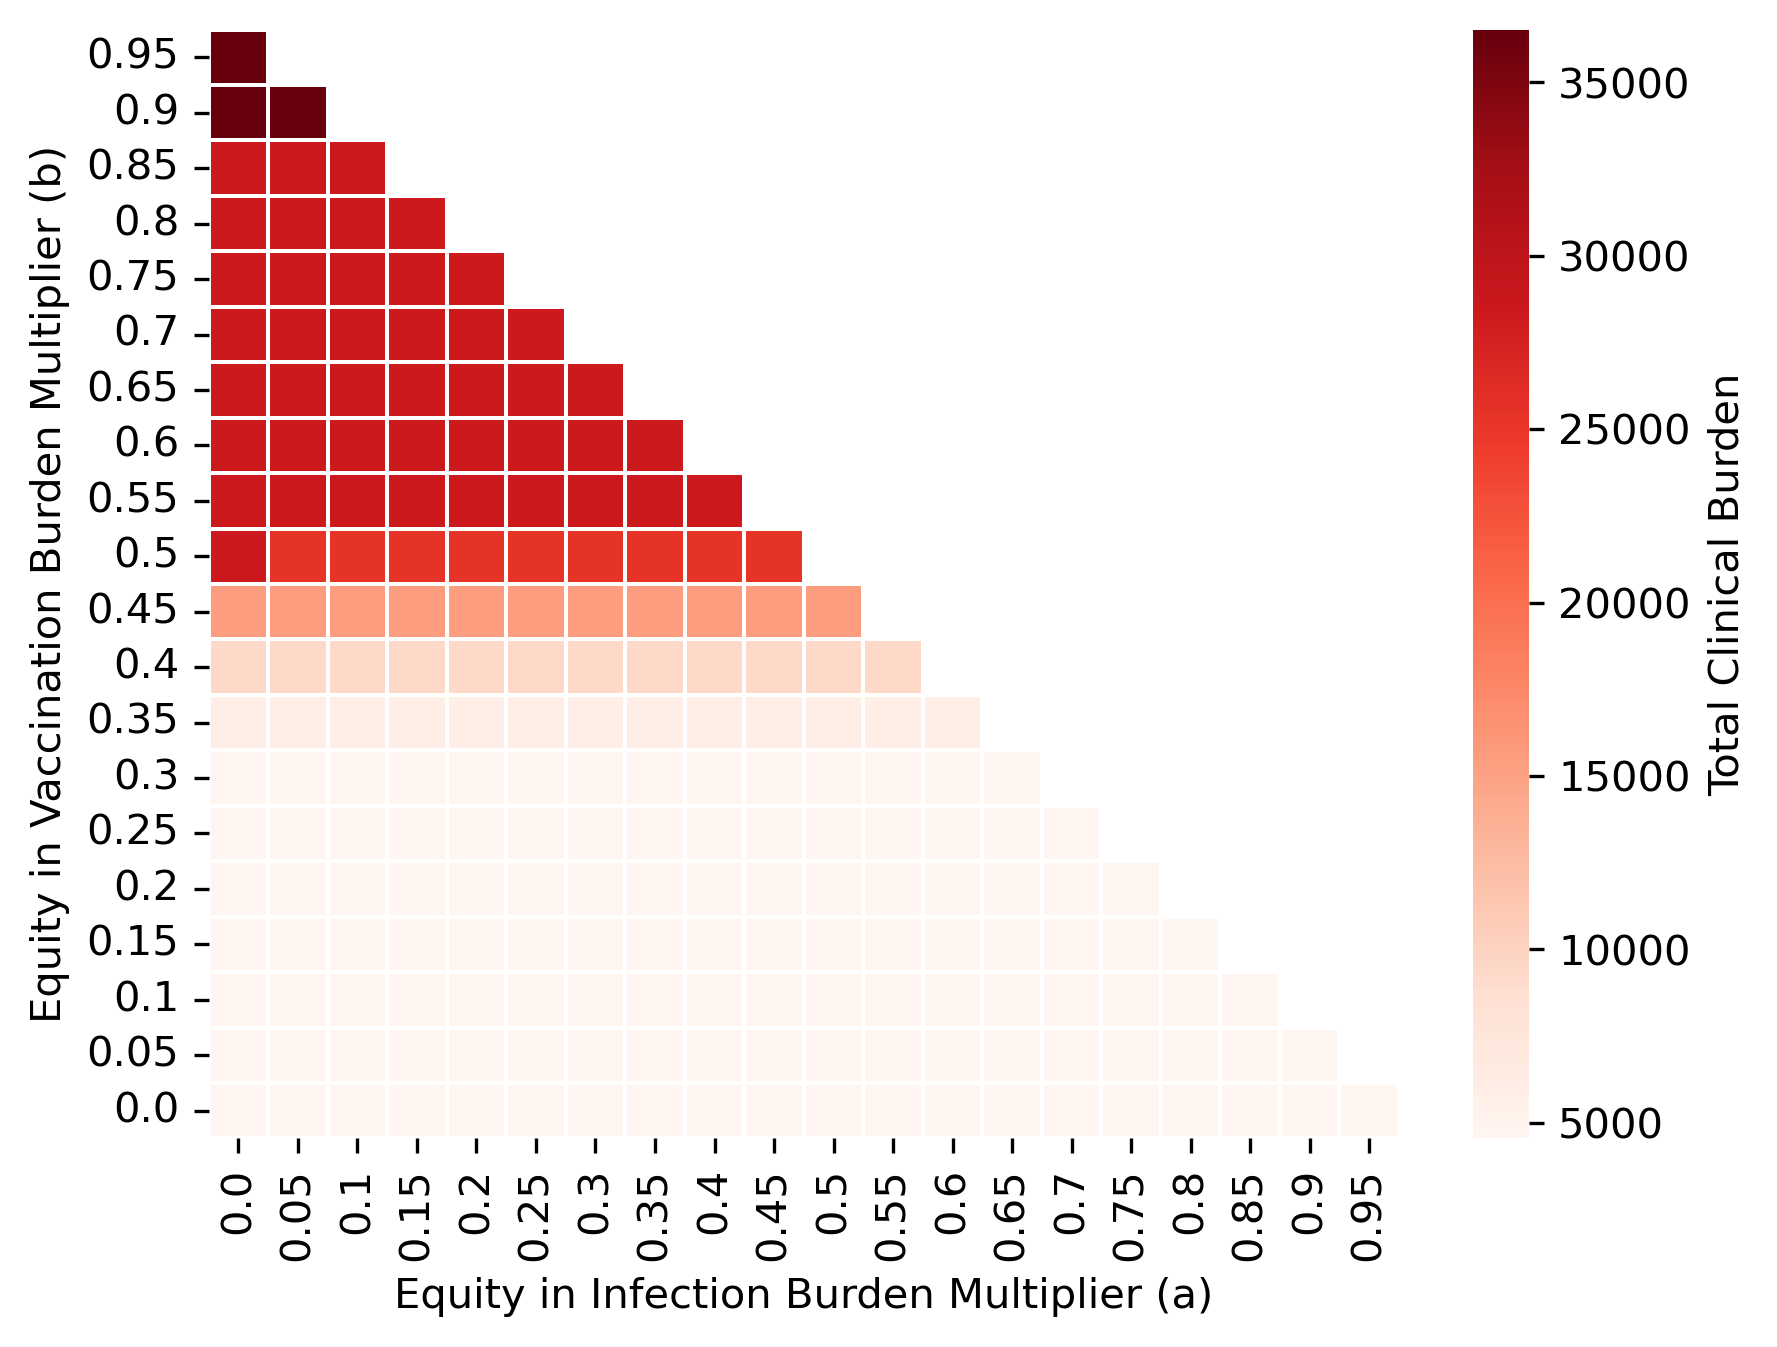
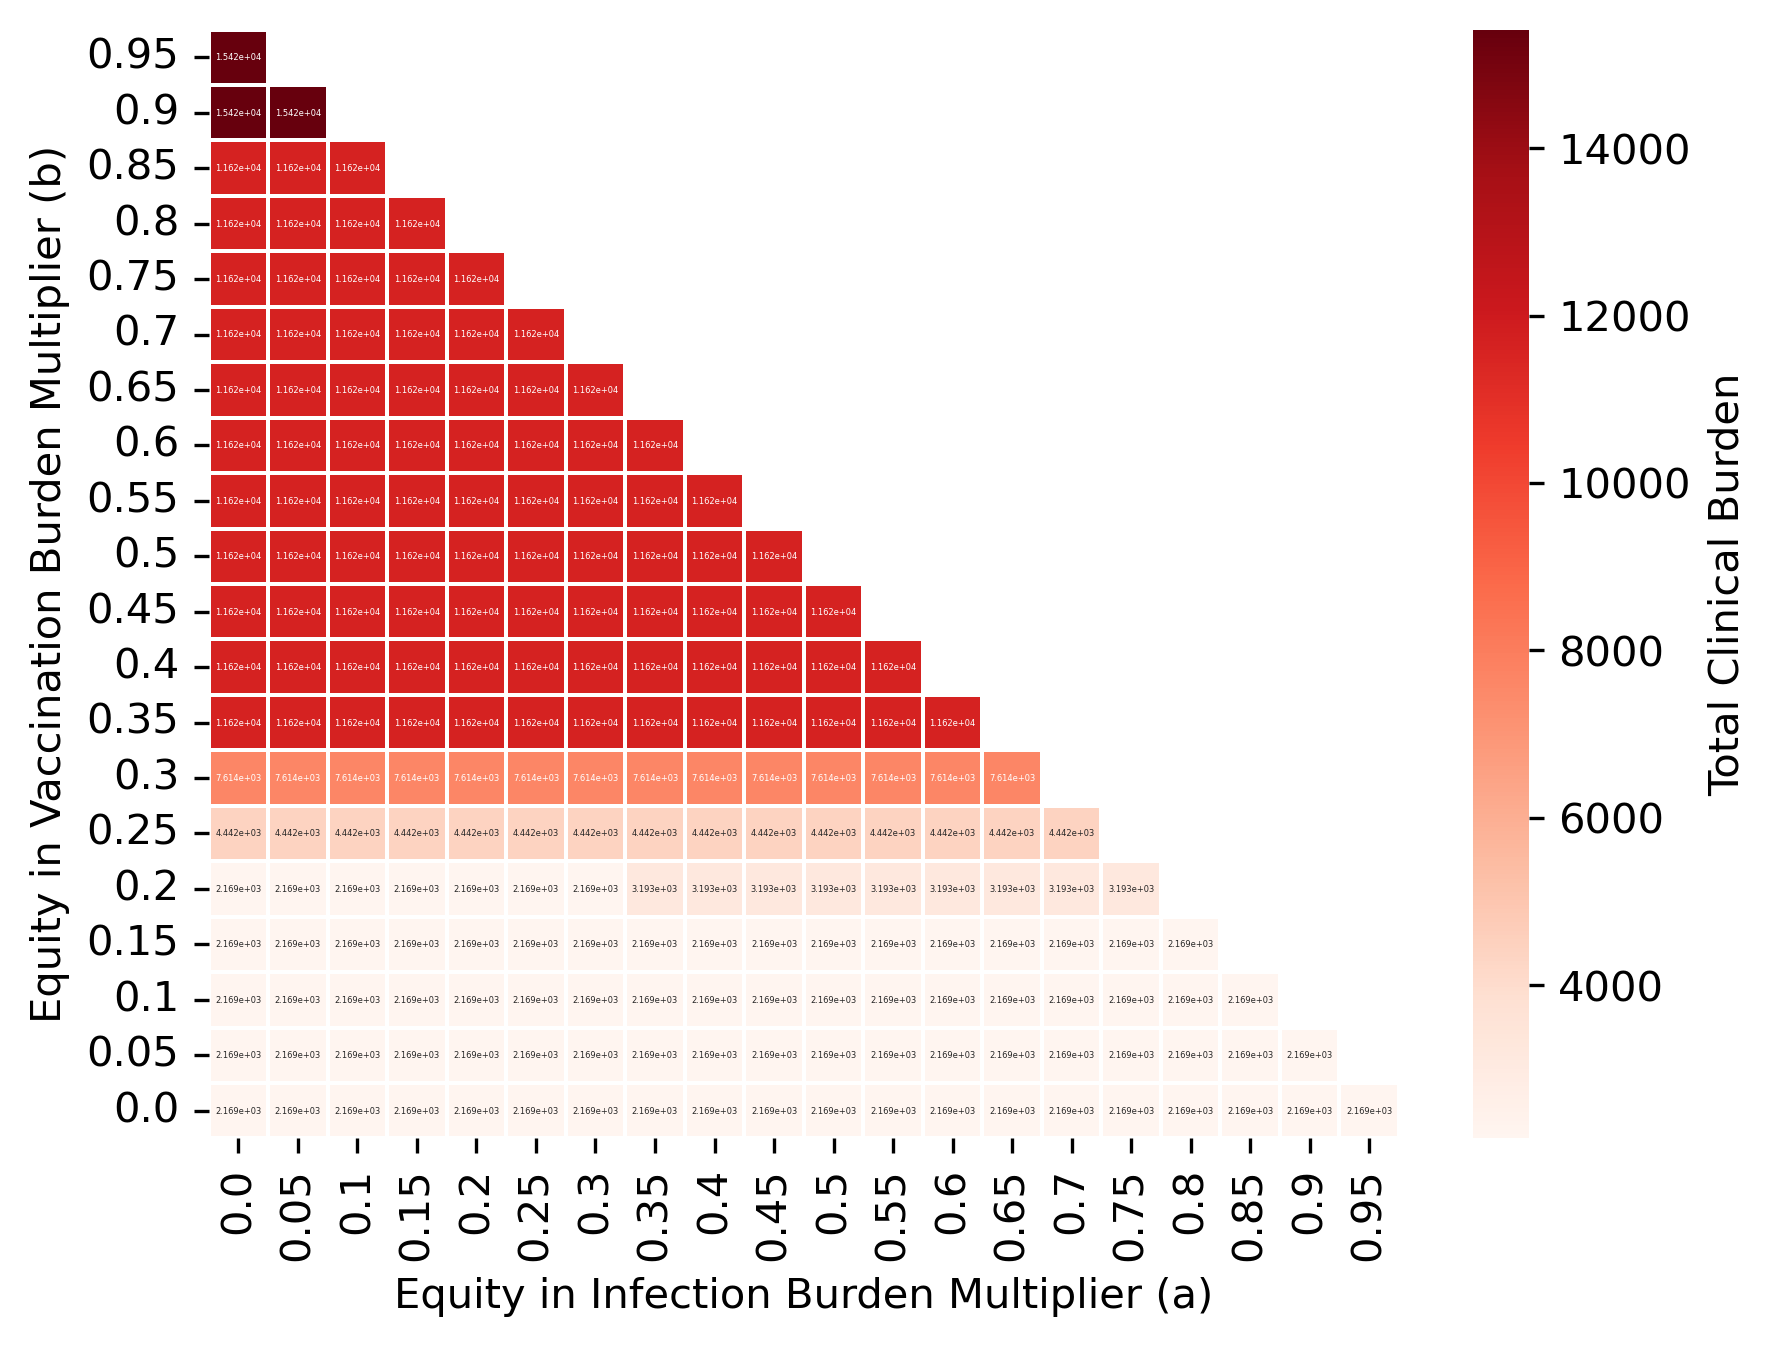
worked on refactor of plotting scripts
refactored plotting code

diff --git a/plot-all-optimization-results_testing.py b/plot-all-optimization-results_testing.py
@@ -12,6 +12,7 @@ from matplotlib import cm
 import sys
 import os
 
+
 if len(sys.argv) > 1:
     config_file = sys.argv[1]
 else:
@@ -143,6 +144,22 @@ def burden_infections_group_2_Vacc(
             dbp.days_hosp_inf_2 * 
             sir.inf_2_vu )
 
+# total infection burden group 1
+def total_burden_infections_group_1(
+    sir: em.SIROutcome, dbp: em.BurdenParams    
+    ) -> float:
+    tot= (burden_infections_group_1_noVacc(sir, dbp) + 
+            burden_infections_group_1_Vacc(sir, dbp))
+    return (tot)
+
+def total_burden_infections_group_2(
+    sir: em.SIROutcome, dbp: em.BurdenParams    
+    ) -> float:
+    tot= (burden_infections_group_2_noVacc(sir, dbp) + 
+            burden_infections_group_2_Vacc(sir, dbp))
+    return (tot)
+
+
 def total_vaccinations(sir: em.SIROutcome) -> float:
     return (sir.total_vac_1 + sir.total_vac_2)
 
@@ -150,10 +167,8 @@ def total_vaccinations(sir: em.SIROutcome) -> float:
 def total_burden_infections(
     sir: em.SIROutcome, dbp: em.BurdenParams    
     ) -> float:
-    tot_1 = (burden_infections_group_1_noVacc(sir, dbp) + 
-            burden_infections_group_1_Vacc(sir, dbp))
-    tot_2 = (burden_infections_group_2_noVacc(sir, dbp) + 
-            burden_infections_group_2_Vacc(sir, dbp))
+    tot_1 = total_burden_infections_group_1(sir, dbp)
+    tot_2 = total_burden_infections_group_2(sir, dbp)
     return (tot_1 + tot_2)
 
 def total_burden_adverse(sir: em.SIROutcome, dbp: em.BurdenParams) -> float: 
@@ -163,6 +178,38 @@ def total_burden_adverse(sir: em.SIROutcome, dbp: em.BurdenParams) -> float:
 def total_clinical_burden(sir:em.SIROutcome, dbp: em.BurdenParams) -> float:
     return (total_burden_infections(sir, dbp) + 
             total_burden_adverse(sir, dbp))
+
+
+# per-capita burdens: 
+def pop_1(ic: em.SIRInitialCondition) -> int:
+    return ic.pop_size(1)
+
+def pop_2(ic: em.SIRInitialCondition) -> int:
+    return ic.pop_size(2)
+
+def total_pop(ic: em.SIRInitialCondition) -> int:
+    return (pop_1(ic) + pop_2(ic))
+
+def adverse_per_capita_1(sir: em.SIROutcome, 
+                         dbp: em.BurdenParams, 
+                         ic: em.SIRInitialCondition) -> float:
+    return(burden_adverse_group_1(sir, dbp) / pop_1(ic))
+
+def adverse_per_capita_2(sir: em.SIROutcome, 
+                         dbp: em.BurdenParams, 
+                         ic: em.SIRInitialCondition) -> float:
+    return(burden_adverse_group_2(sir, dbp) / pop_2(ic)) 
+
+def infection_burden_per_capita_1(sir: em.SIROutcome, 
+                                  dbp: em.BurdenParams, 
+                                  ic: em.SIRInitialCondition) -> float:
+    return(total_burden_infections_group_1(sir, dbp) / pop_1(ic))
+
+def infection_burden_per_capita_2(sir: em.SIROutcome, 
+                                  dbp: em.BurdenParams, 
+                                  ic: em.SIRInitialCondition) -> float:
+    return(total_burden_infections_group_2(sir, dbp) / pop_2(ic)) 
+
 
 '''
 def loss_clinical_burden_vacc(
@@ -254,21 +301,26 @@ for ethical_a in np.arange(grid_min, grid_max, step):
         # _optimal_outcome is of type em.SIROutcome
         _optimal_outcome = [o for o in db["outcomes"] if o["configuration_id"] == _optimal_config[0]["id"]]
 
+        ic_ab = _optimal_ic[0]["value"]
+
         oc_ab = _optimal_outcome[0]["outcome"]
 
         # this is where outcomes are logged
-        vac_1 = count_vaccinations_group_1(oc_ab)
-        vac_2 = count_vaccinations_group_2(oc_ab)
+        vac_1 = count_vaccinations_group_1(oc_ab) / pop_1(ic_ab)
+        vac_2 = count_vaccinations_group_2(oc_ab) / pop_2(ic_ab)
 
-        inf_1 = count_infections_group_1(oc_ab)
-        inf_2 = count_infections_group_2(oc_ab)
+        inf_1 = count_infections_group_1(oc_ab) / pop_1(ic_ab)
+        inf_2 = count_infections_group_2(oc_ab) / pop_2(ic_ab)
         
         clinical_burden = total_clinical_burden(oc_ab, bp)
         
         total_vaccination = total_vaccinations(oc_ab)
 
-        EQ_adverse_1 = burden_adverse_group_1(oc_ab, bp)
-        EQ_adverse_2 = burden_adverse_group_2(oc_ab, bp)
+        p_adverse_1 = adverse_per_capita_1(oc_ab, bp, ic_ab)
+        p_adverse_2 = adverse_per_capita_2(oc_ab, bp, ic_ab)
+
+        p_infection_burden_1 = infection_burden_per_capita_1(oc_ab, bp, ic_ab)
+        p_infection_burden_2 = infection_burden_per_capita_2(oc_ab, bp, ic_ab)
 
 
 
@@ -283,7 +335,11 @@ for ethical_a in np.arange(grid_min, grid_max, step):
                 "inf_1": inf_1,
                 "inf_2": inf_2,
                 "cli_burden": clinical_burden,
-                "total_vacc": total_vaccination
+                "total_vacc": total_vaccination,
+                "p_adverse_1": p_adverse_1,
+                "p_adverse_2": p_adverse_2,
+                "p_infburd_1": p_infection_burden_1,
+                "p_infburd_2": p_infection_burden_2
                 #"loss": _opti mal_outcome,
             }
         )
@@ -296,44 +352,66 @@ plot_df = pd.DataFrame(plot_df)
 
 
 # plot heatmaps (no interpolation.)
-variables = ["inf_1", "inf_2", "vac_1", "vac_2", "cli_burden", "total_vacc"]
+variables = ["inf_1", 
+             "inf_2", 
+             "vac_1", 
+             "vac_2", 
+             "cli_burden", 
+             "total_vacc",
+             "p_adverse_1",
+             "p_adverse_2",
+             "p_infburd_1",
+             "p_infburd_2" ]
 
-labels = ["Infections in group 1 (%)",
-          "Infections in group 2 (%)",
-          "Vaccinations in group 1 (%)",
-          "Vaccinations in group 2 (%)",
+labels = ["Prop. infected in group 1",
+          "Prop. infected in group 2",
+          "Prop. vaccinated in group 1",
+          "Prop. vaccinated in group 2",
           "Total Clinical Burden",
-          "Total Number of Vaccinated Individuals"]
+          "Total Number of Vaccinated Individuals",
+          "per-capita adverse event burden (group 1)",
+          "per-capita adverse event burden (group 2)",
+          "per-capita infection burden (group 1)",
+          "per-capita infection burden (group 2)"]
 
-colors = ["Reds", "Reds", "Purples", "Purples", "Reds", "Purples"]
+colors = ["Reds", 
+          "Reds", 
+          "Purples", 
+          "Purples", 
+          "Reds", 
+          "Purples",
+          "Oranges",
+          "Oranges",
+          "Blues",
+          "Blues"]
 
 for var, label, color in zip(variables, labels, colors):
-    if var in ["cli_burden", "total_vacc"]:
-        perc_var = var
-    else:
-        perc_var = "%s_perc"%var
-        plot_df[perc_var] = 100 * plot_df[var]/CONFIG["population_parameters"]["pop_size_%s"%(var.split("_")[1])]
     
     plot_df["a"] = [round(i,2) for i in plot_df["a"]]
     
     plot_df["b"] = [round(i,2) for i in plot_df["b"]]
     
-    data = plot_df.pivot(index="b", columns="a", values = perc_var)
+    data = plot_df.pivot(index="b", columns="a", values = var)
     
     plt.figure()
-    ax = sns.heatmap(data, linewidth=0.5,
-                     vmin=min(plot_df[perc_var]),
-                     vmax=max(plot_df[perc_var]),
+    ax = sns.heatmap(data, 
+                     linewidth=0.5,
+                     vmin=min(plot_df[var]),
+                     vmax=max(plot_df[var]),
                      #yticklabels=['High','Medium','Low','No'],
                      cbar_kws={'label': label},
-                     cmap=color,annot=False, fmt='.0f')
+                     cmap=color,
+                     annot=True,
+                     annot_kws={"fontsize":2},
+                     fmt='.3e'
+                     )
     ax.invert_yaxis()
     #plt.xlabel("a")
     #plt.ylabel("b")
     plt.xlabel("Equity in Infection Burden Multiplier (a)")
     plt.ylabel("Equity in Vaccination Burden Multiplier (b)")
 
-    plt.savefig(f"{output_dir}/hm_%s_across_all.png"%perc_var, bbox_inches='tight', dpi=300)
+    plt.savefig(f"{output_dir}/hm_%s_across_all.png"%var, bbox_inches='tight', dpi=300)
     #plt.savefig(f"{output_dir}/hm_%s_across_all.svg"%perc_var, bbox_inches='tight', dpi=300)
 
 
